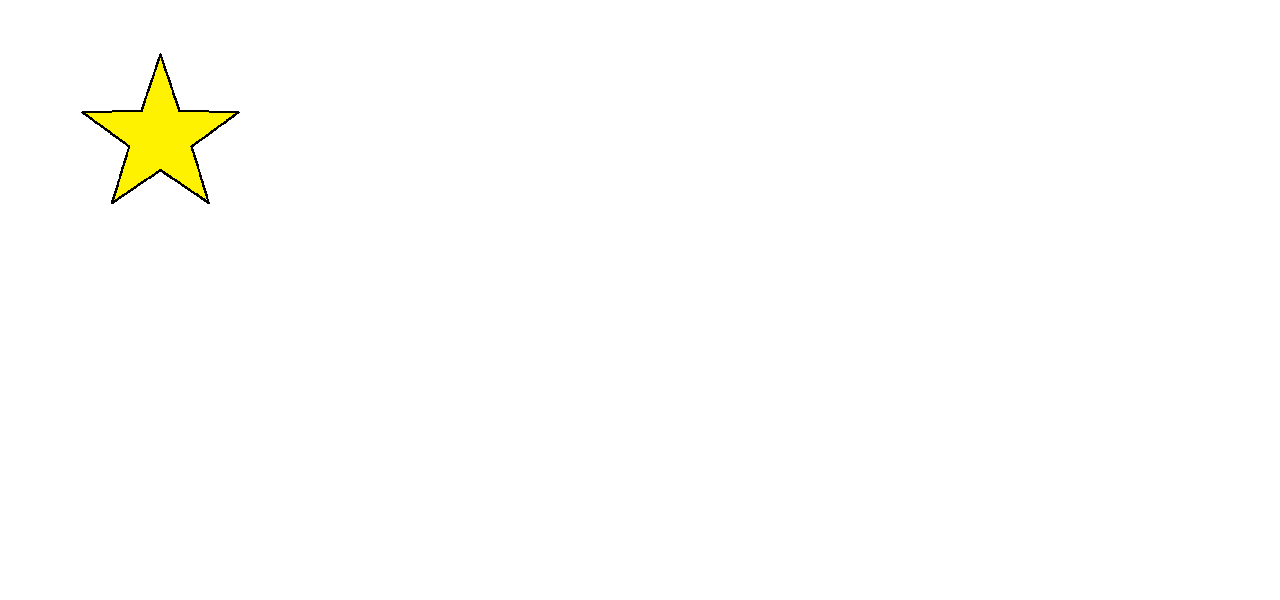
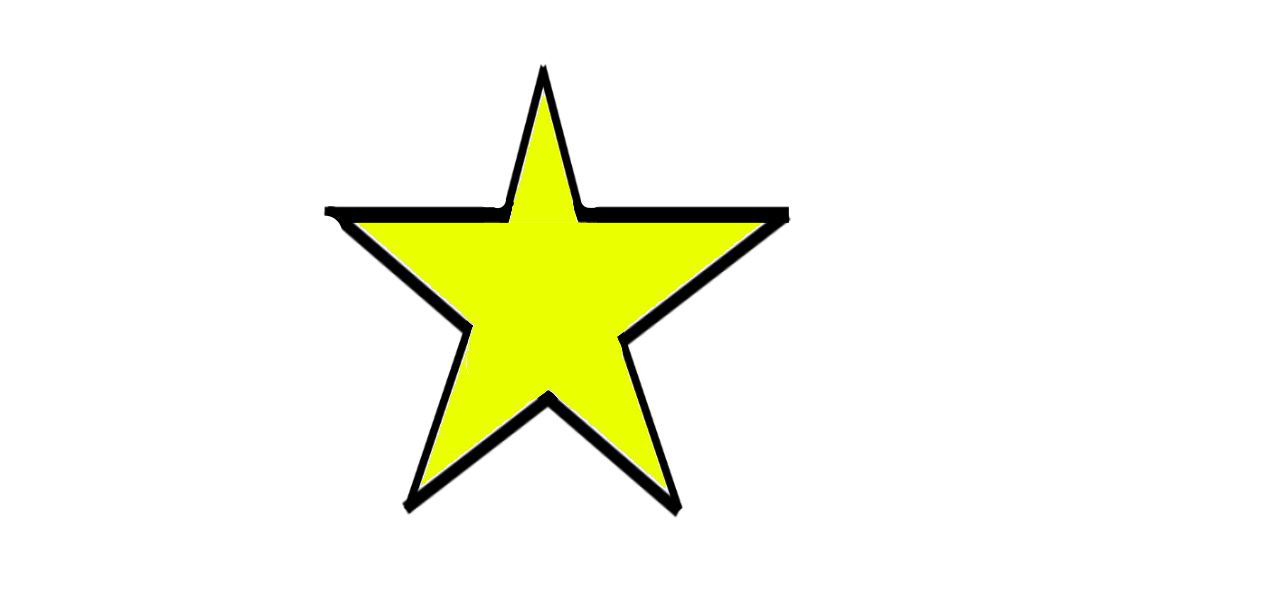
PlayPane
Removed old images for power ups, added new ones, and edited set size
function for power ups

Changed region(s): [[0.25, 0.12, 0.625, 0.87], [0.0625, 0.09, 0.1875, 0.33]]

diff --git a/group-project/src/starter/PlayPane.java b/group-project/src/starter/PlayPane.java
@@ -271,7 +271,7 @@ import acm.util.RandomGenerator;
 			fileName += IMG_EXTENSION;
 			
 			powerUp = new GImage(fileName, WINDOW_WIDTH, 300);
-			powerUp.setSize(50, 50);
+			powerUp.setSize(225, 100);
 			powerUp.sendToFront();
 			program.add(powerUp);
 			powerUps.add(powerUp);
